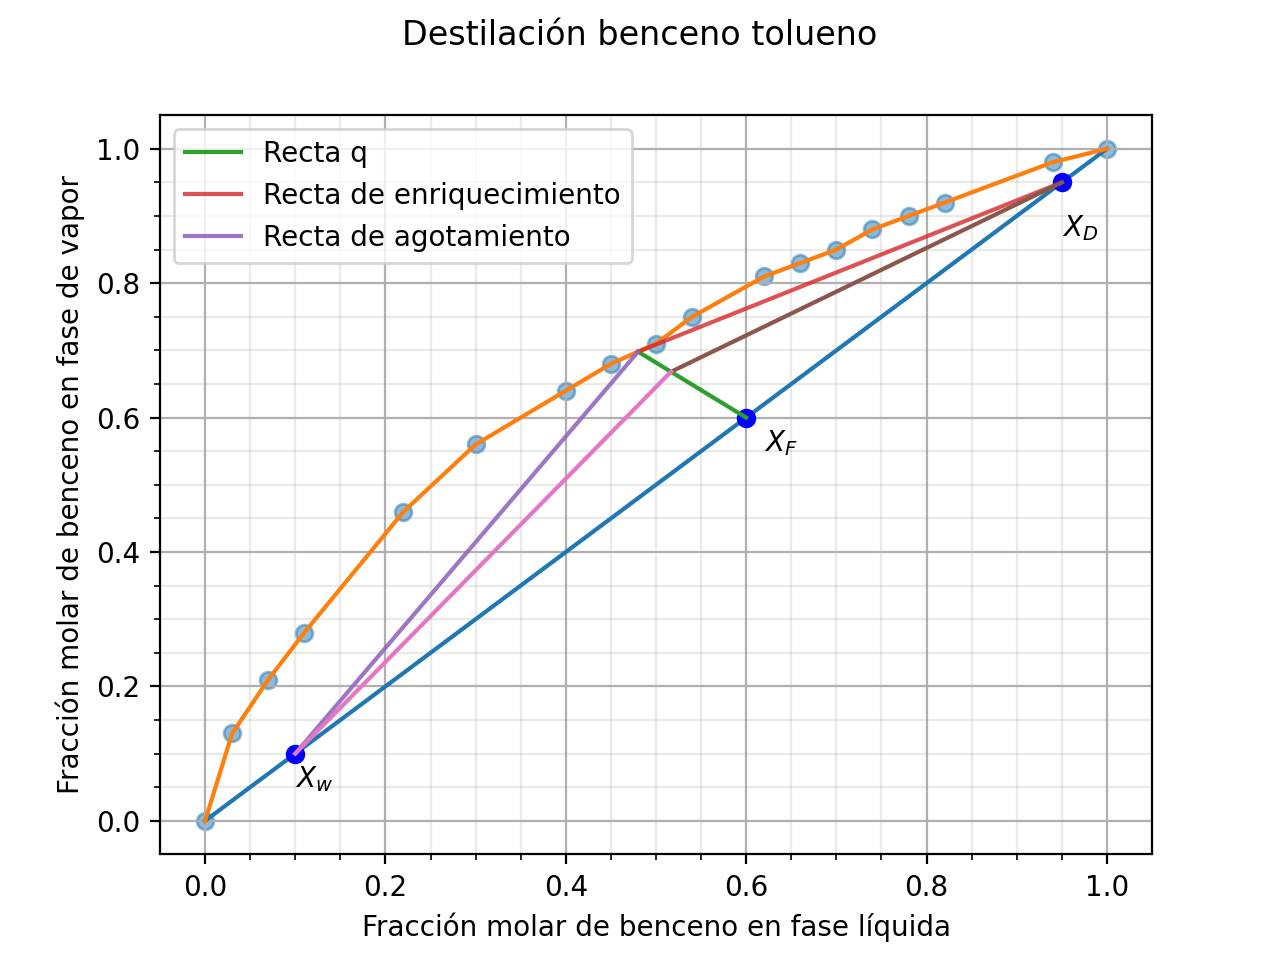
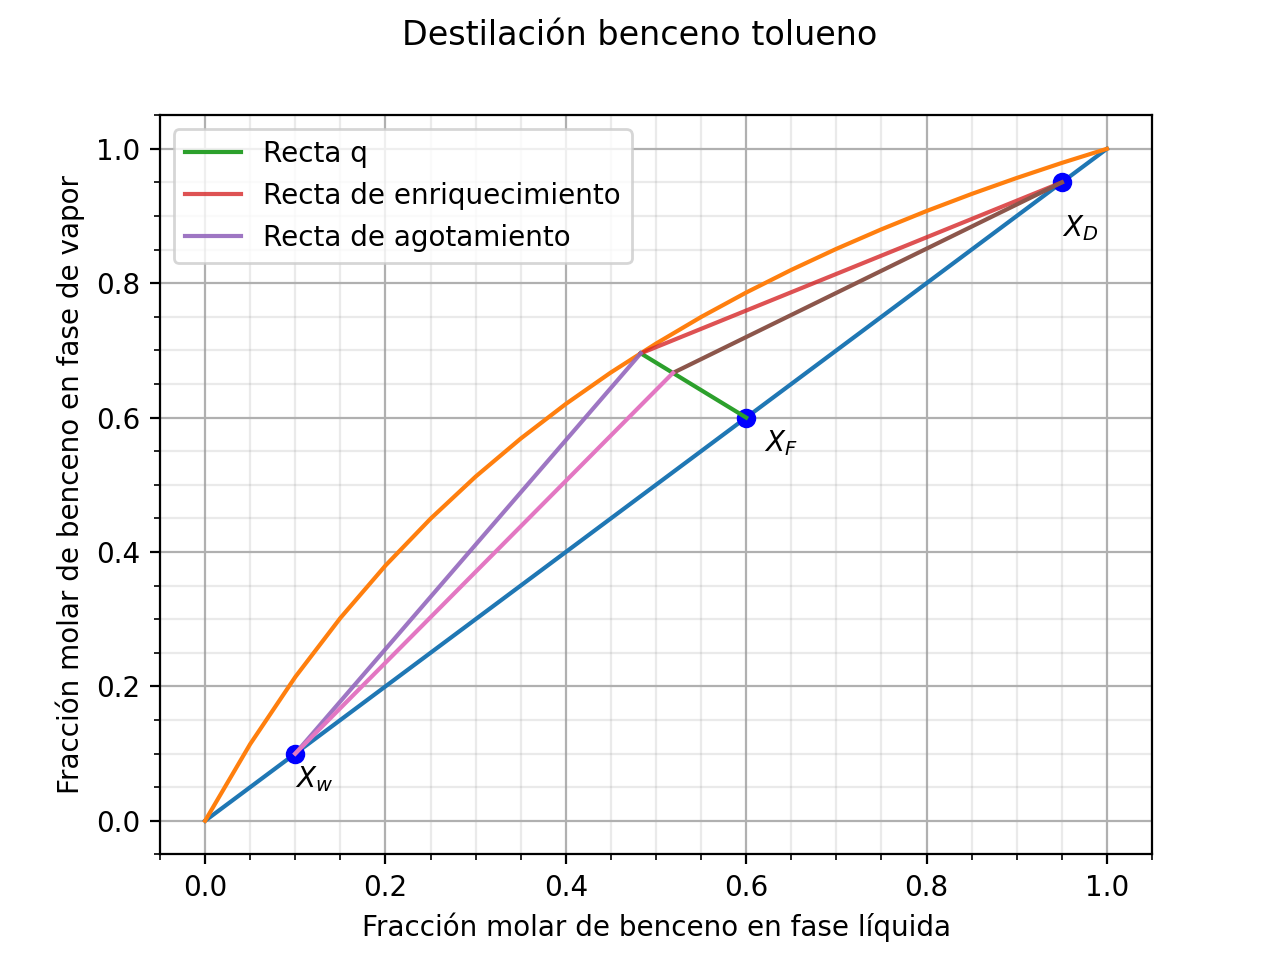
Make script runnable: add VLE data and fix matplotlib grid call
- Add Destilacion.csv (benzene-toluene VLE from alpha = 2.45 model);
  the original Destilacion.xlsx was never committed.
- Read CSV instead of Excel, dropping the openpyxl dependency.
- Replace grid(b=...) with grid(visible=...) for matplotlib >= 3.6.
- Regenerate plot and document the data source in README.

diff --git a/Destilacion.py b/Destilacion.py
@@ -12,7 +12,7 @@ def intersection(x1_array, y1_array, x2_array, y2_array):
     return x_inter, y_inter
 
 
-archivo = pd.read_excel("Destilacion.xlsx")
+archivo = pd.read_csv("Destilacion.csv")
 Data_x=archivo["X"].values
 Data_y=archivo["Y"].values
 n =len(Data_x)
@@ -23,7 +23,7 @@ Grid =Figure.add_gridspec(1,1)
 Graph1 = Figure.add_subplot(Grid[0,0])
 Graph1.grid(True)
 Graph1.minorticks_on()
-Graph1.grid(b=True, which='minor', color='#999999', linestyle='-', alpha=0.2)
+Graph1.grid(visible=True, which='minor', color='#999999', linestyle='-', alpha=0.2)
 
 x = np.linspace(0,max(Data_x),n)
 Graph1.plot(x,x,Data_x,Data_y)

diff --git a/README.md b/README.md
@@ -2,6 +2,11 @@
 McCabe Thiele Method for Distillation Process
 ![destilation](Destilacion.png)
 
+## Data
+`Destilacion.csv` holds benzene–toluene vapor–liquid equilibrium data (`X`, `Y`).
+It is generated from a constant relative volatility model,
+y = αx / (1 + (α − 1)x) with α = 2.45, not from experimental measurements.
+
 
 
 # Author 
